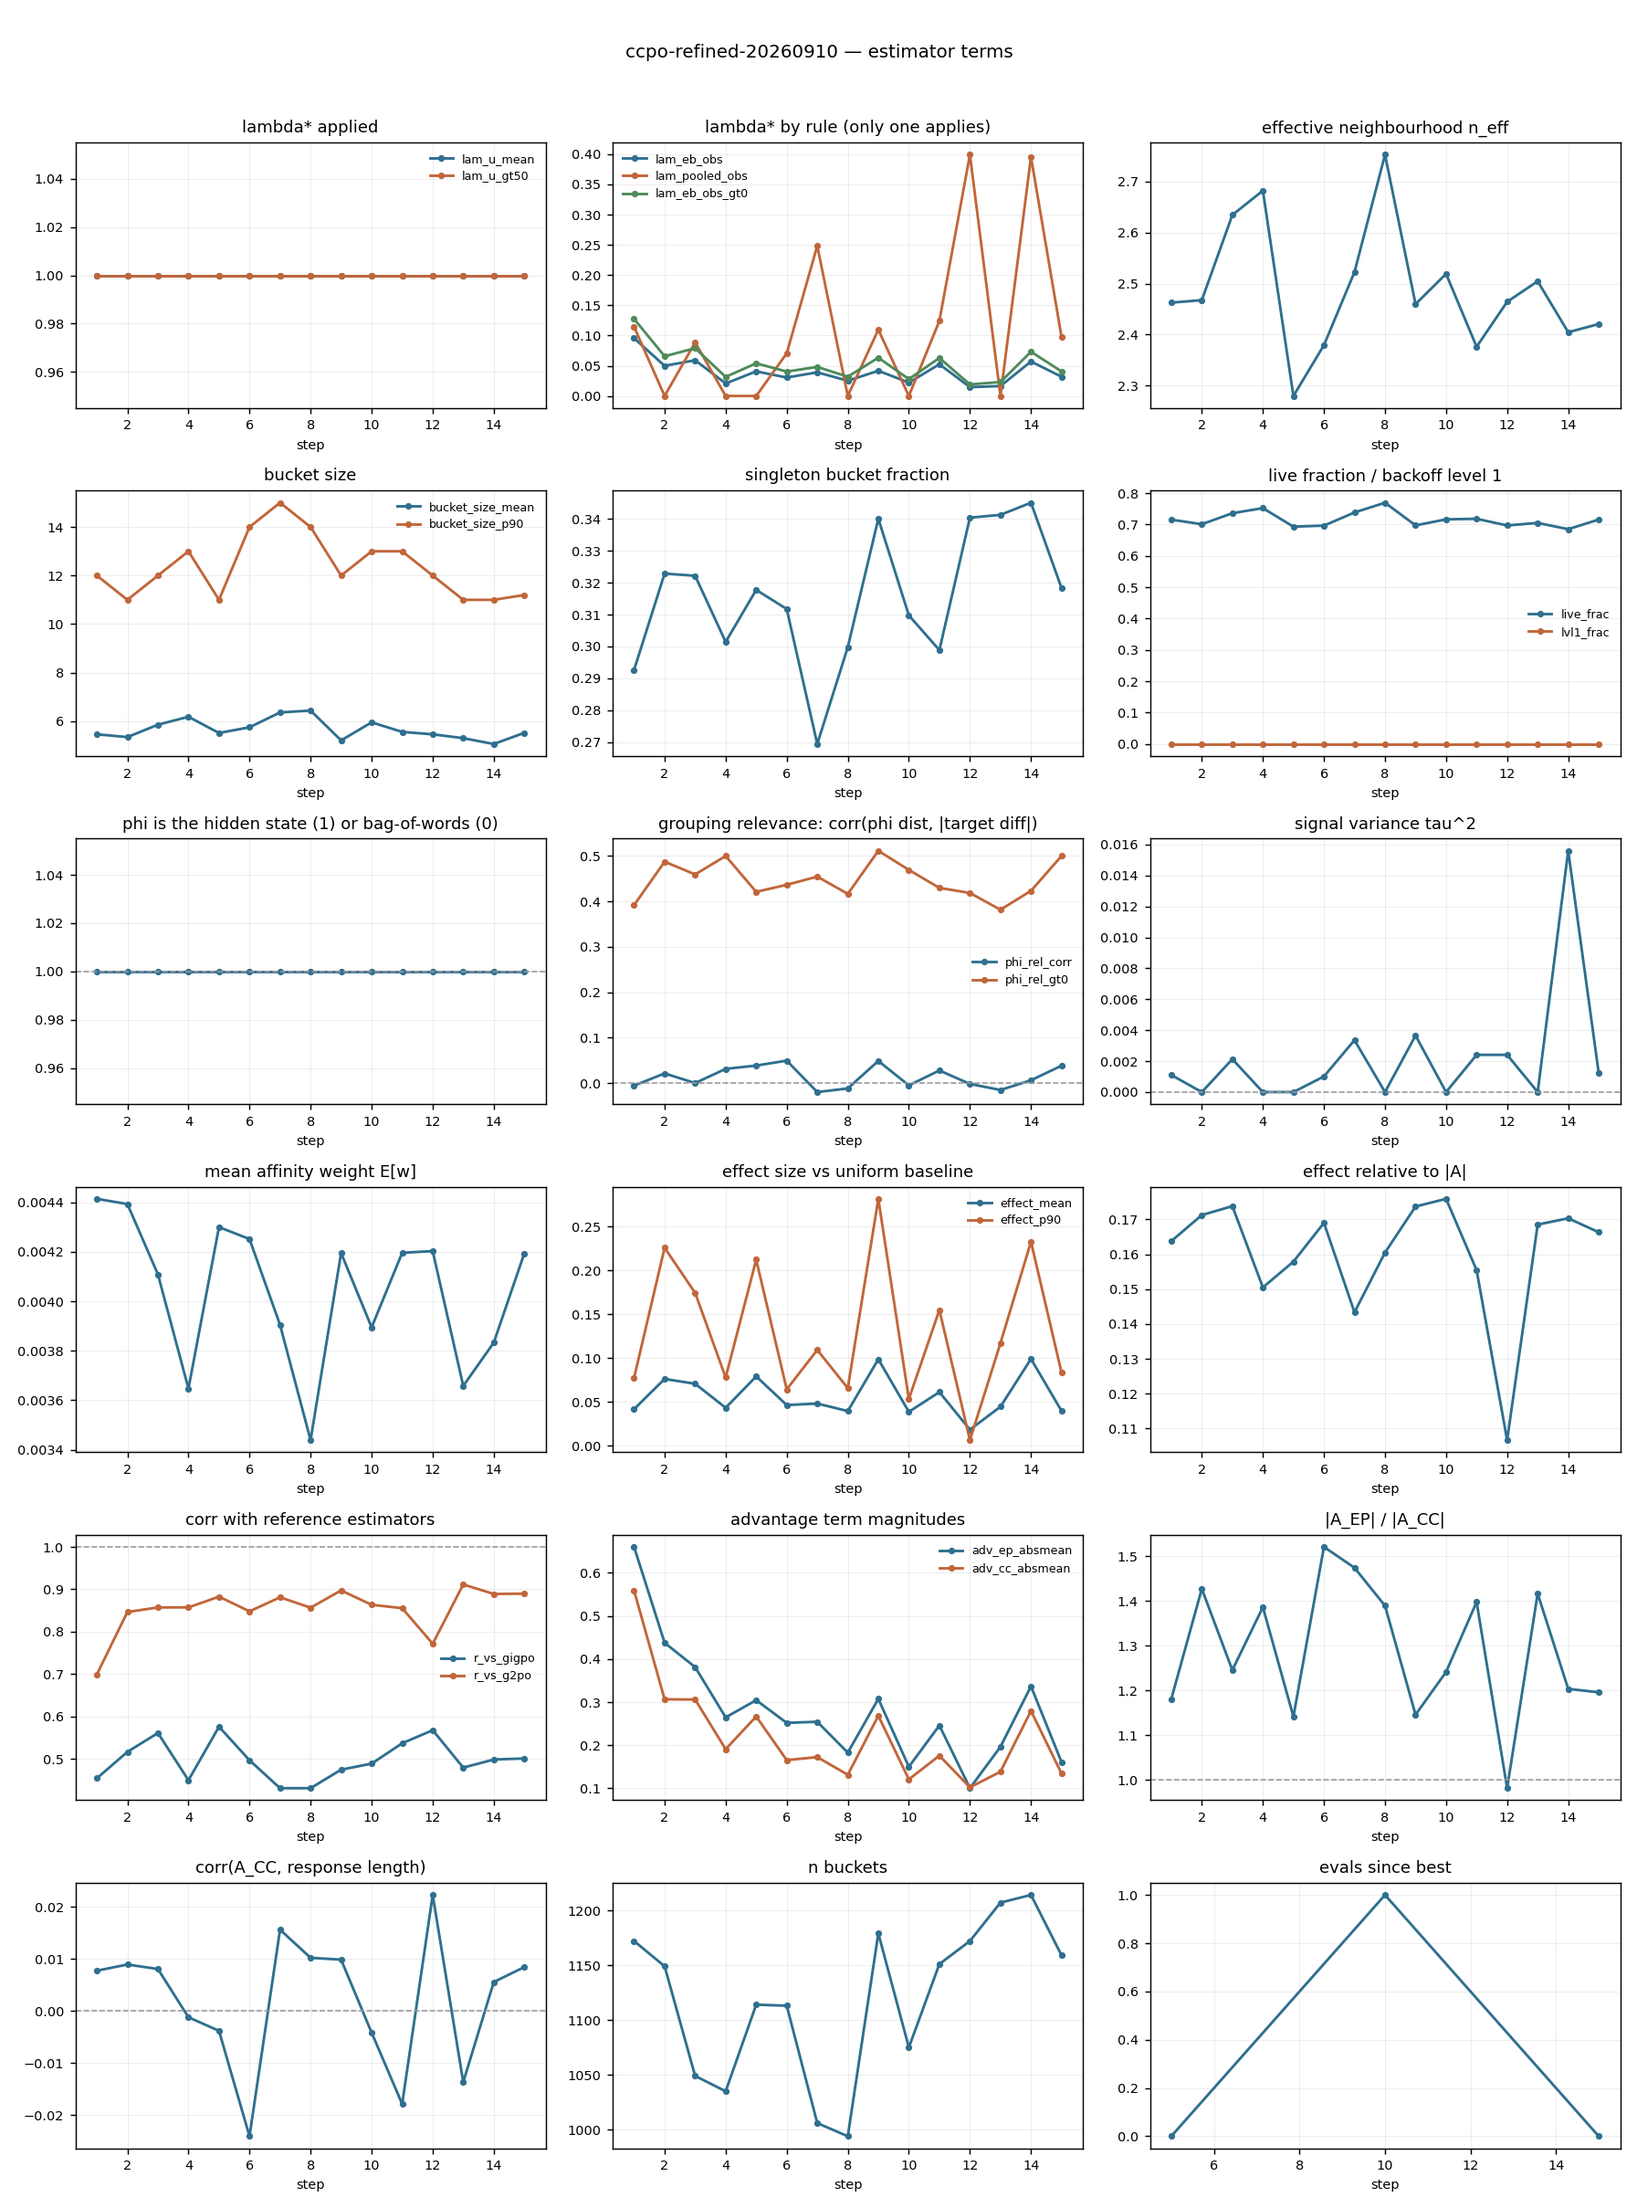
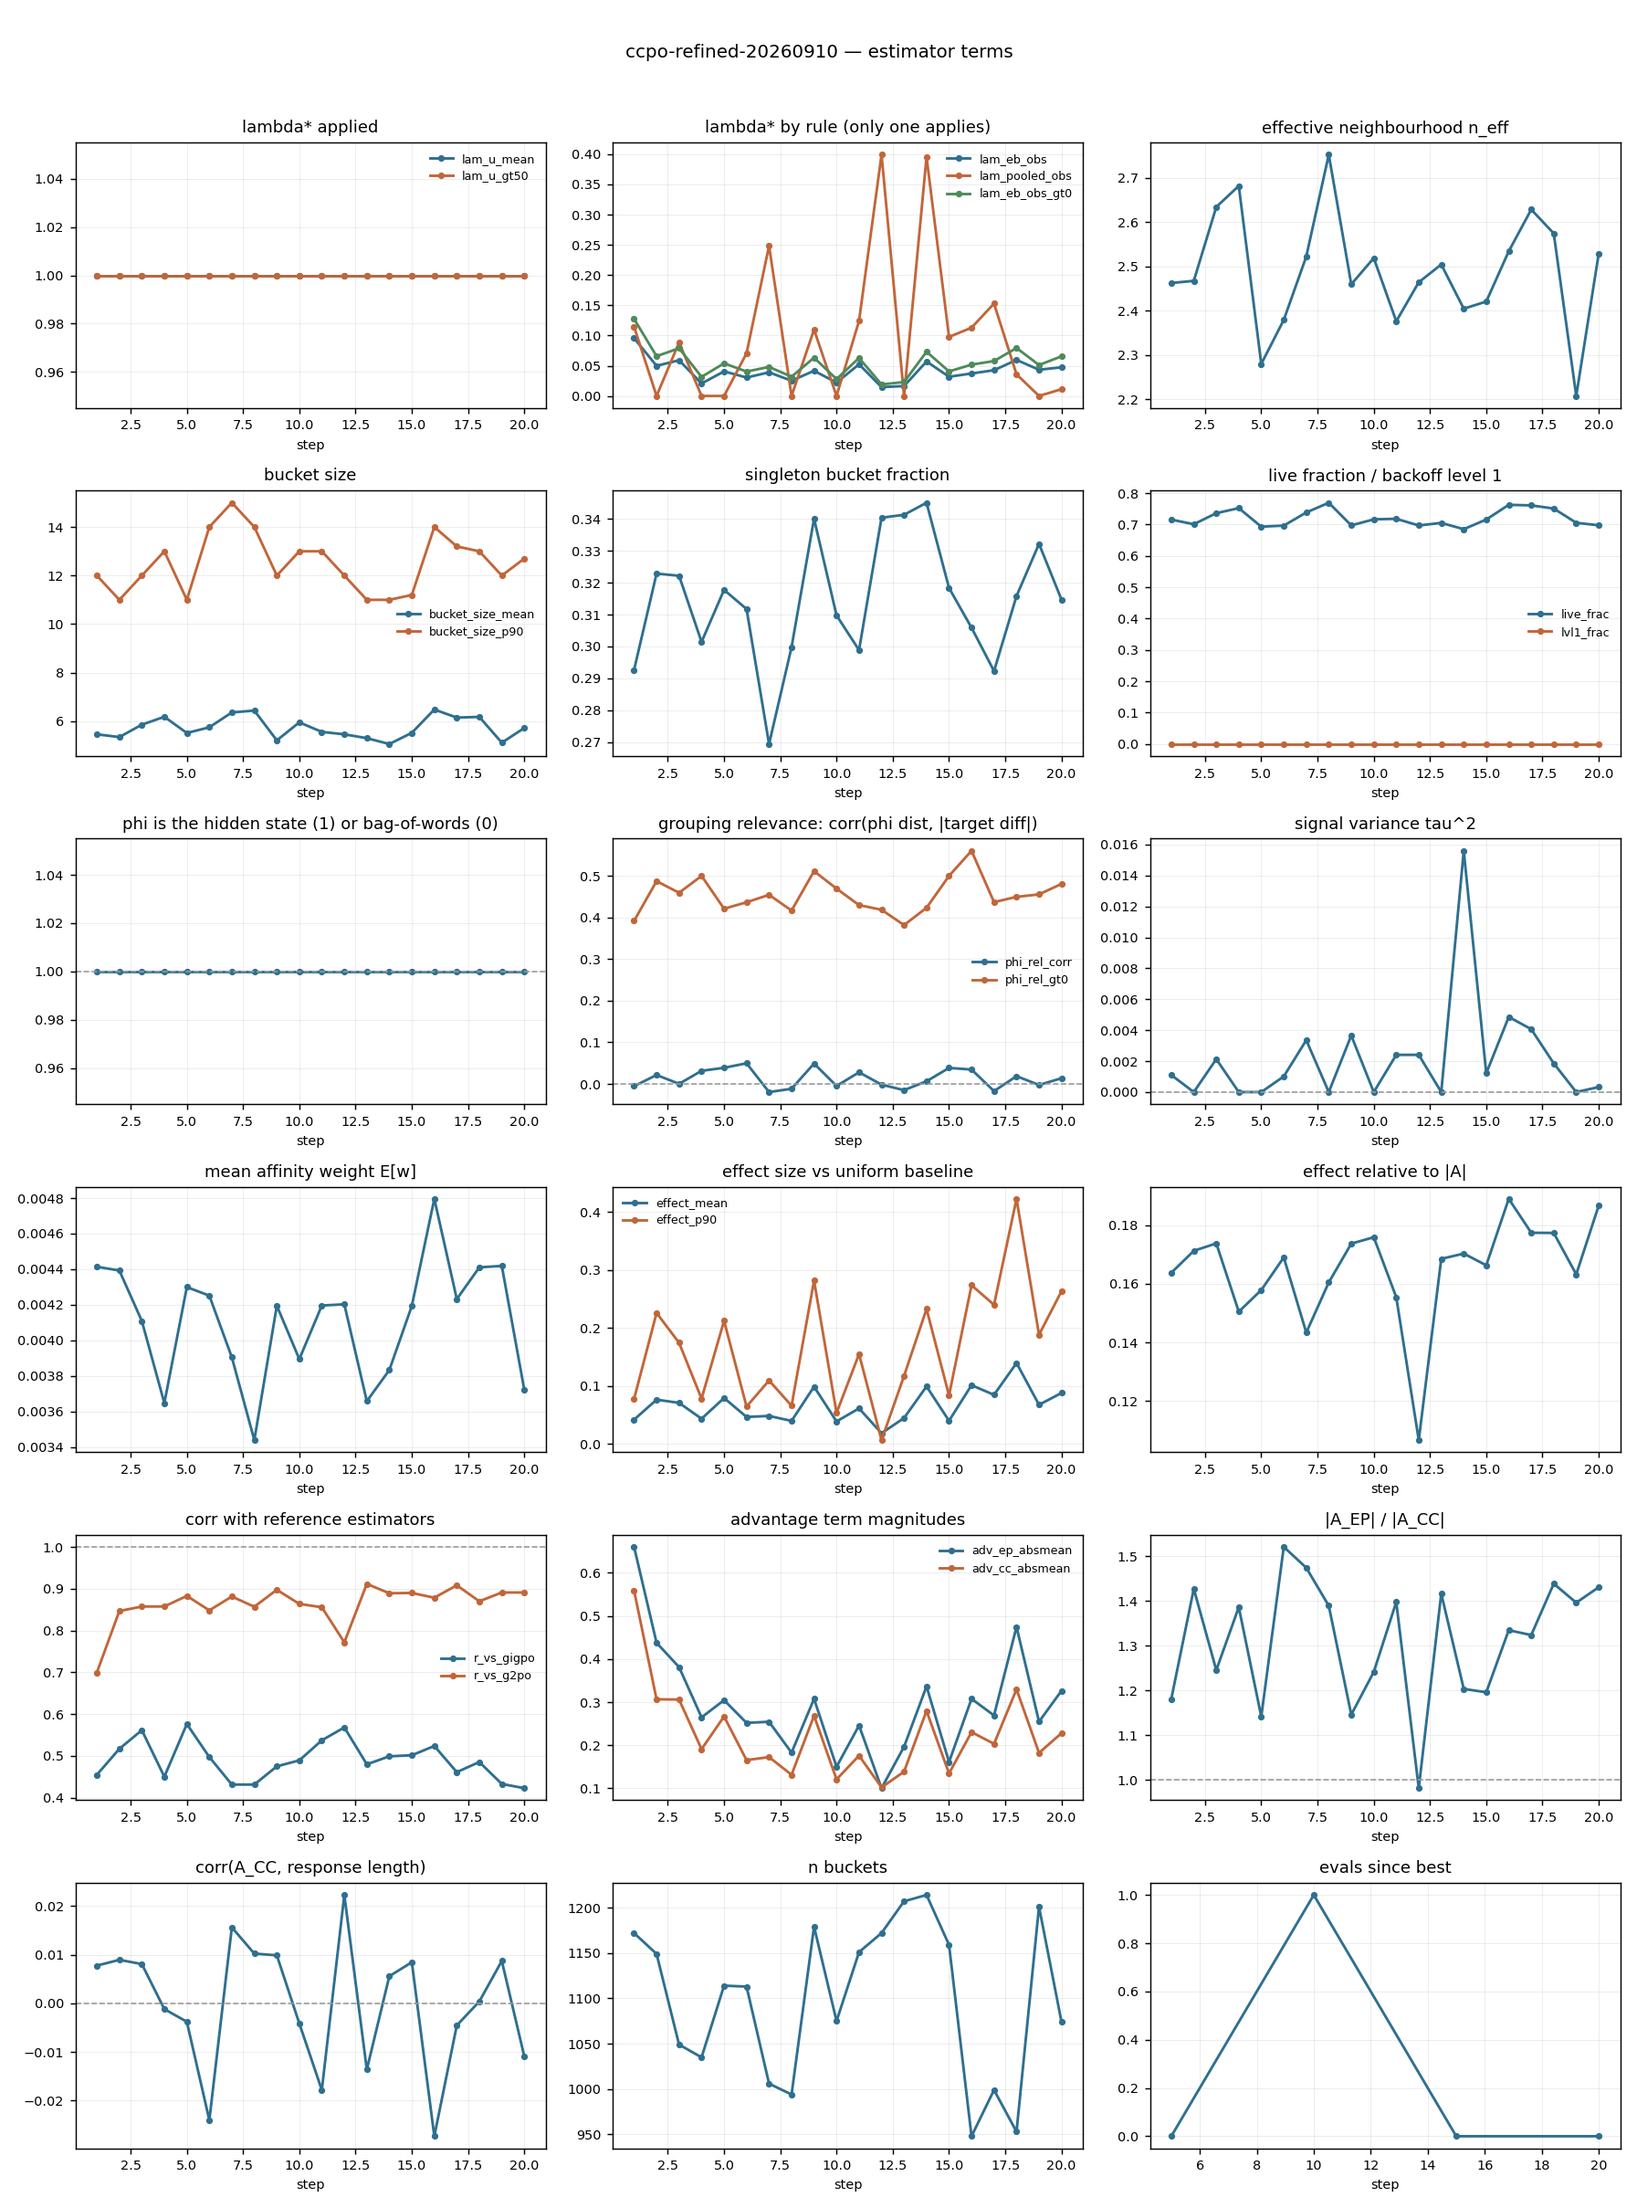
ccpo-refined step 20: kill rule passes, eb arm stays cancelled; bring method.html current
Held-out 14.8% against base's 21.1% clears the 11% kill threshold fixed at step 10, so the
arm runs to 50. All four evaluations trail base within noise, the same shape as
ccpo-anchor, which shares the refined partition and finished unconverted.

The H-AL proxy passes with tau2 positive on 13 of 20 steps, but lam_eb_obs stayed flat at
a mean of 0.0413 with a maximum of 0.0956, four times below the stated 0.2 exception, so
the eb follow-up remains cancelled and H-AL records the confirmation.

method.html replaces its stale 'under test now' paragraph, which still described
g2po-harness as running and repeated the since-corrected claim that our anchor repair is
generic, with an account of ccpo-refined and the H-AL result: tau2 goes from positive on
none of 130 steps to 65% once the partition is refined, yet EB would weight context at
about four percent. The results table now shows ccpo-anchor as stopped and unconverted at
step 31 rather than running, and adds a row for ccpo-refined.

Claude-Session: https://claude.ai/code/session_01Eywpmpzk7tuN6B1qiJfqQk

diff --git a/docs/method.html b/docs/method.html
@@ -1113,7 +1113,8 @@ td .m{font-family:"IBM Plex Mono",monospace; font-size:.93em}
         <tr><td class="dim">GiGPO (published)</td><td class="num">150</td><td class="num">86.7 &plusmn; 1.7</td><td>different budget &mdash; not matched</td></tr>
         <tr style="background:rgba(200,60,50,.07)"><td class="dim"><b>G&sup2;PO &mdash; THEIR TREE, OUR HARDWARE</b></td><td class="num"><b>100</b></td><td class="num"><b>91.4</b></td><td><b>reproduction</b> &mdash; window mean 86.8, peak 95.3 @95; <span class="m">g2po-ref-20260909</span></td></tr>
         <tr class="ourrow"><td class="dim"><b>CCPO &mdash; global gate + edge term</b></td><td class="num"><b>100</b></td><td class="num"><b>79.7</b></td><td><b>ours, 1 seed</b> &mdash; <span class="m">ccpo-global-20260907</span></td></tr>
-        <tr><td class="dim">CCPO &mdash; &plus; G&sup2;PO anchor repair &amp; admissible-action key</td><td class="num">100</td><td class="num" style="opacity:.6">running</td><td>single-variable change from the row above &mdash; <span class="m">ccpo-anchor-20260909</span>, see 05b-bis</td></tr>
+        <tr><td class="dim">CCPO &mdash; global gate &plus; G&sup2;PO-style anchor</td><td class="num">31</td><td class="num">20.3 @30</td><td>stopped, unconverted &mdash; 6/6 evaluations behind base; <span class="m">ccpo-anchor-20260909</span></td></tr>
+        <tr><td class="dim">CCPO &mdash; <b>hard gate</b> &plus; G&sup2;PO-style anchor, &lambda; forced to 1</td><td class="num">100</td><td class="num" style="opacity:.6">running</td><td>the design-error fix: context <em>refines</em> the partition; 14.8 @20 vs base 21.1; <span class="m">ccpo-refined-20260910</span></td></tr>
         <tr><td class="dim">CCPO &mdash; same arm extended to 145</td><td class="num">145</td><td class="num">79.7</td><td>mean of 9 evals &mdash; <b>+0.00 over step 100</b>; <span class="m">ccpo-global-ext-20260908</span></td></tr>
         <tr><td class="dim">GRPO (published)</td><td class="num">100</td><td class="num">72.8 &plusmn; 3.6</td><td>&mdash;</td></tr>
         <tr><td class="dim">CCPO &mdash; hard gate, no edge term</td><td class="num">100</td><td class="num">70.3</td><td>ours &mdash; <span class="m">ccpo-long-20260906</span></td></tr>
@@ -1261,12 +1262,29 @@ td .m{font-family:"IBM Plex Mono",monospace; font-size:.93em}
     G&sup2;PO's key: the key was right, the anchor feeding it was too coarse.</p>
   </div>
 
-  <p style="margin-top:16px"><b>What is under test now.</b> Two arms, back to back:
-  <span class="m">g2po-harness</span> (their estimator, our un-refined anchor) isolates estimator from harness;
-  <span class="m">g2po-aff</span> adds our anchor refinement. The second is the only place a contribution over
-  G&sup2;PO still plausibly sits &mdash; their invisible-state repair is hand-written ALFWorld vocabulary
-  (<span class="m">"You heat"</span>, <span class="m">"You cool"</span>), while ours derives failures generically
-  from <span class="m">obs<sub>t+1</sub> == obs<sub>t</sub></span>.</p>
+  <p style="margin-top:16px"><b>What is under test now.</b> <span class="m">ccpo-refined</span> fixes the design
+  error: context conditioning <em>refines</em> G&sup2;PO's partition (hard gate on observation &plus; admissible
+  actions &plus; failure repair) instead of replacing it, with &lambda; forced to 1 so the context term genuinely
+  operates &mdash; under the hard gate the empirical-Bayes &lambda; would otherwise collapse to ~0.01. It is valid
+  (&lambda; = 1.000, context carries 16.5% of |A|), passed its kill rule at step 20, and runs to 50. All four
+  evaluations so far trail base, each within noise.</p>
+
+  <div class="callout">
+    <div class="lbl">What it has already shown &mdash; context carries a little signal once the state is right</div>
+    <p>On the observation-only partition the between-node variance &tau;&sup2; that context exists to explain was
+    positive on <b>0 of 130</b> steps. On the refined partition it is positive on <b>65%</b>. So the refinement does
+    give context real structure &mdash; the shrinkage was partly responding to a bad partition, not only to a bad
+    idea.</p>
+    <p>But the &lambda; that empirical Bayes <em>would</em> assign, logged throughout, is flat at <b>~0.04</b>:
+    about 4% of the advantage on context, 96% on the plain node baseline. The structure is real and far too small to
+    matter, so the principled <span class="m">shrink=eb</span> follow-up was cancelled.</p>
+  </div>
+
+  <p style="margin-top:14px"><b>Queued behind it:</b> <span class="m">g2po-harness</span> (paused at step 5,
+  resumable), then <span class="m">g2po-aff</span> and <span class="m">g2po-affonly</span>. The last is the only
+  fully domain-agnostic test: our failure repair and admissible-action key are generic, but our invisible-state
+  carry-forward copies G&sup2;PO's ALFWorld strings (<span class="m">"You heat"</span>,
+  <span class="m">"You cool"</span>, &hellip;) verbatim.</p>
 </section>
 
 <section>

diff --git a/experiments/ccpo-refined-20260910/NOTES.md b/experiments/ccpo-refined-20260910/NOTES.md
@@ -111,3 +111,22 @@ The tau2 proxy (9/15 positive) will likely pass at step 20, but the direct measu
 the admission that the pre-registered proxy was the wrong quantity, in H-AL.
 
 This does not affect this arm's own kill rule at step 20.
+
+## Step 20: kill rule PASSED; H-AL proxy passed but the eb arm stays cancelled
+
+| step | ccpo-refined | base | diff |
+|---|---|---|---|
+| 5 | 7.8 | 10.2 | -2.3 |
+| 10 | 7.0 | 10.9 | -3.9 |
+| 15 | 14.1 | 17.2 | -3.1 |
+| 20 | 14.8 | 21.1 | -6.2 |
+
+**Kill rule (fixed at step 10): stop below 11%. 14.8 -> PASS, runs to 50.** All four
+evaluations trail base, each within noise -- the same shape as `ccpo-anchor` (same refined
+partition, 15.6 at step 20), which went on to finish unconverted. Next judgement: step 50
+against base's 50.0, and ultimately against `g2po-aff`.
+
+**H-AL:** tau2 positive on 13/20 (65%), so the pre-registered proxy passes. The direct
+measure does not move: `lam_eb_obs` mean 0.0413 (0.0424 over steps 1-10, 0.0402 over
+11-20), max 0.0956, 0.037-0.060 across steps 16-20. Below the ~0.2 exception by a factor
+of four. **`ccpo-refined-eb` stays cancelled.**

diff --git a/experiments/hypothesis.md b/experiments/hypothesis.md
@@ -117,6 +117,10 @@ Per step 0.015-0.096, no upward trend.
 comes out at step 20 -- unless `lam_eb_obs` rises above ~0.2 by then, which nothing in its
 trend suggests.
 
+**Confirmed at step 20.** The tau2 proxy passed (13/20, 65%). `lam_eb_obs` stayed flat --
+mean 0.0413, 0.0424 over steps 1-10 against 0.0402 over 11-20, max 0.0956 -- a factor of
+four below the ~0.2 exception. The eb arm stays cancelled.
+
 **This departs from the pre-registered criterion, and it should be said plainly.** tau2 > 0
 is necessary for EB to switch context on, not sufficient; I wrote down the proxy instead of
 the quantity it stood for. The correction runs toward NOT spending 13 GPU-hours, and is
